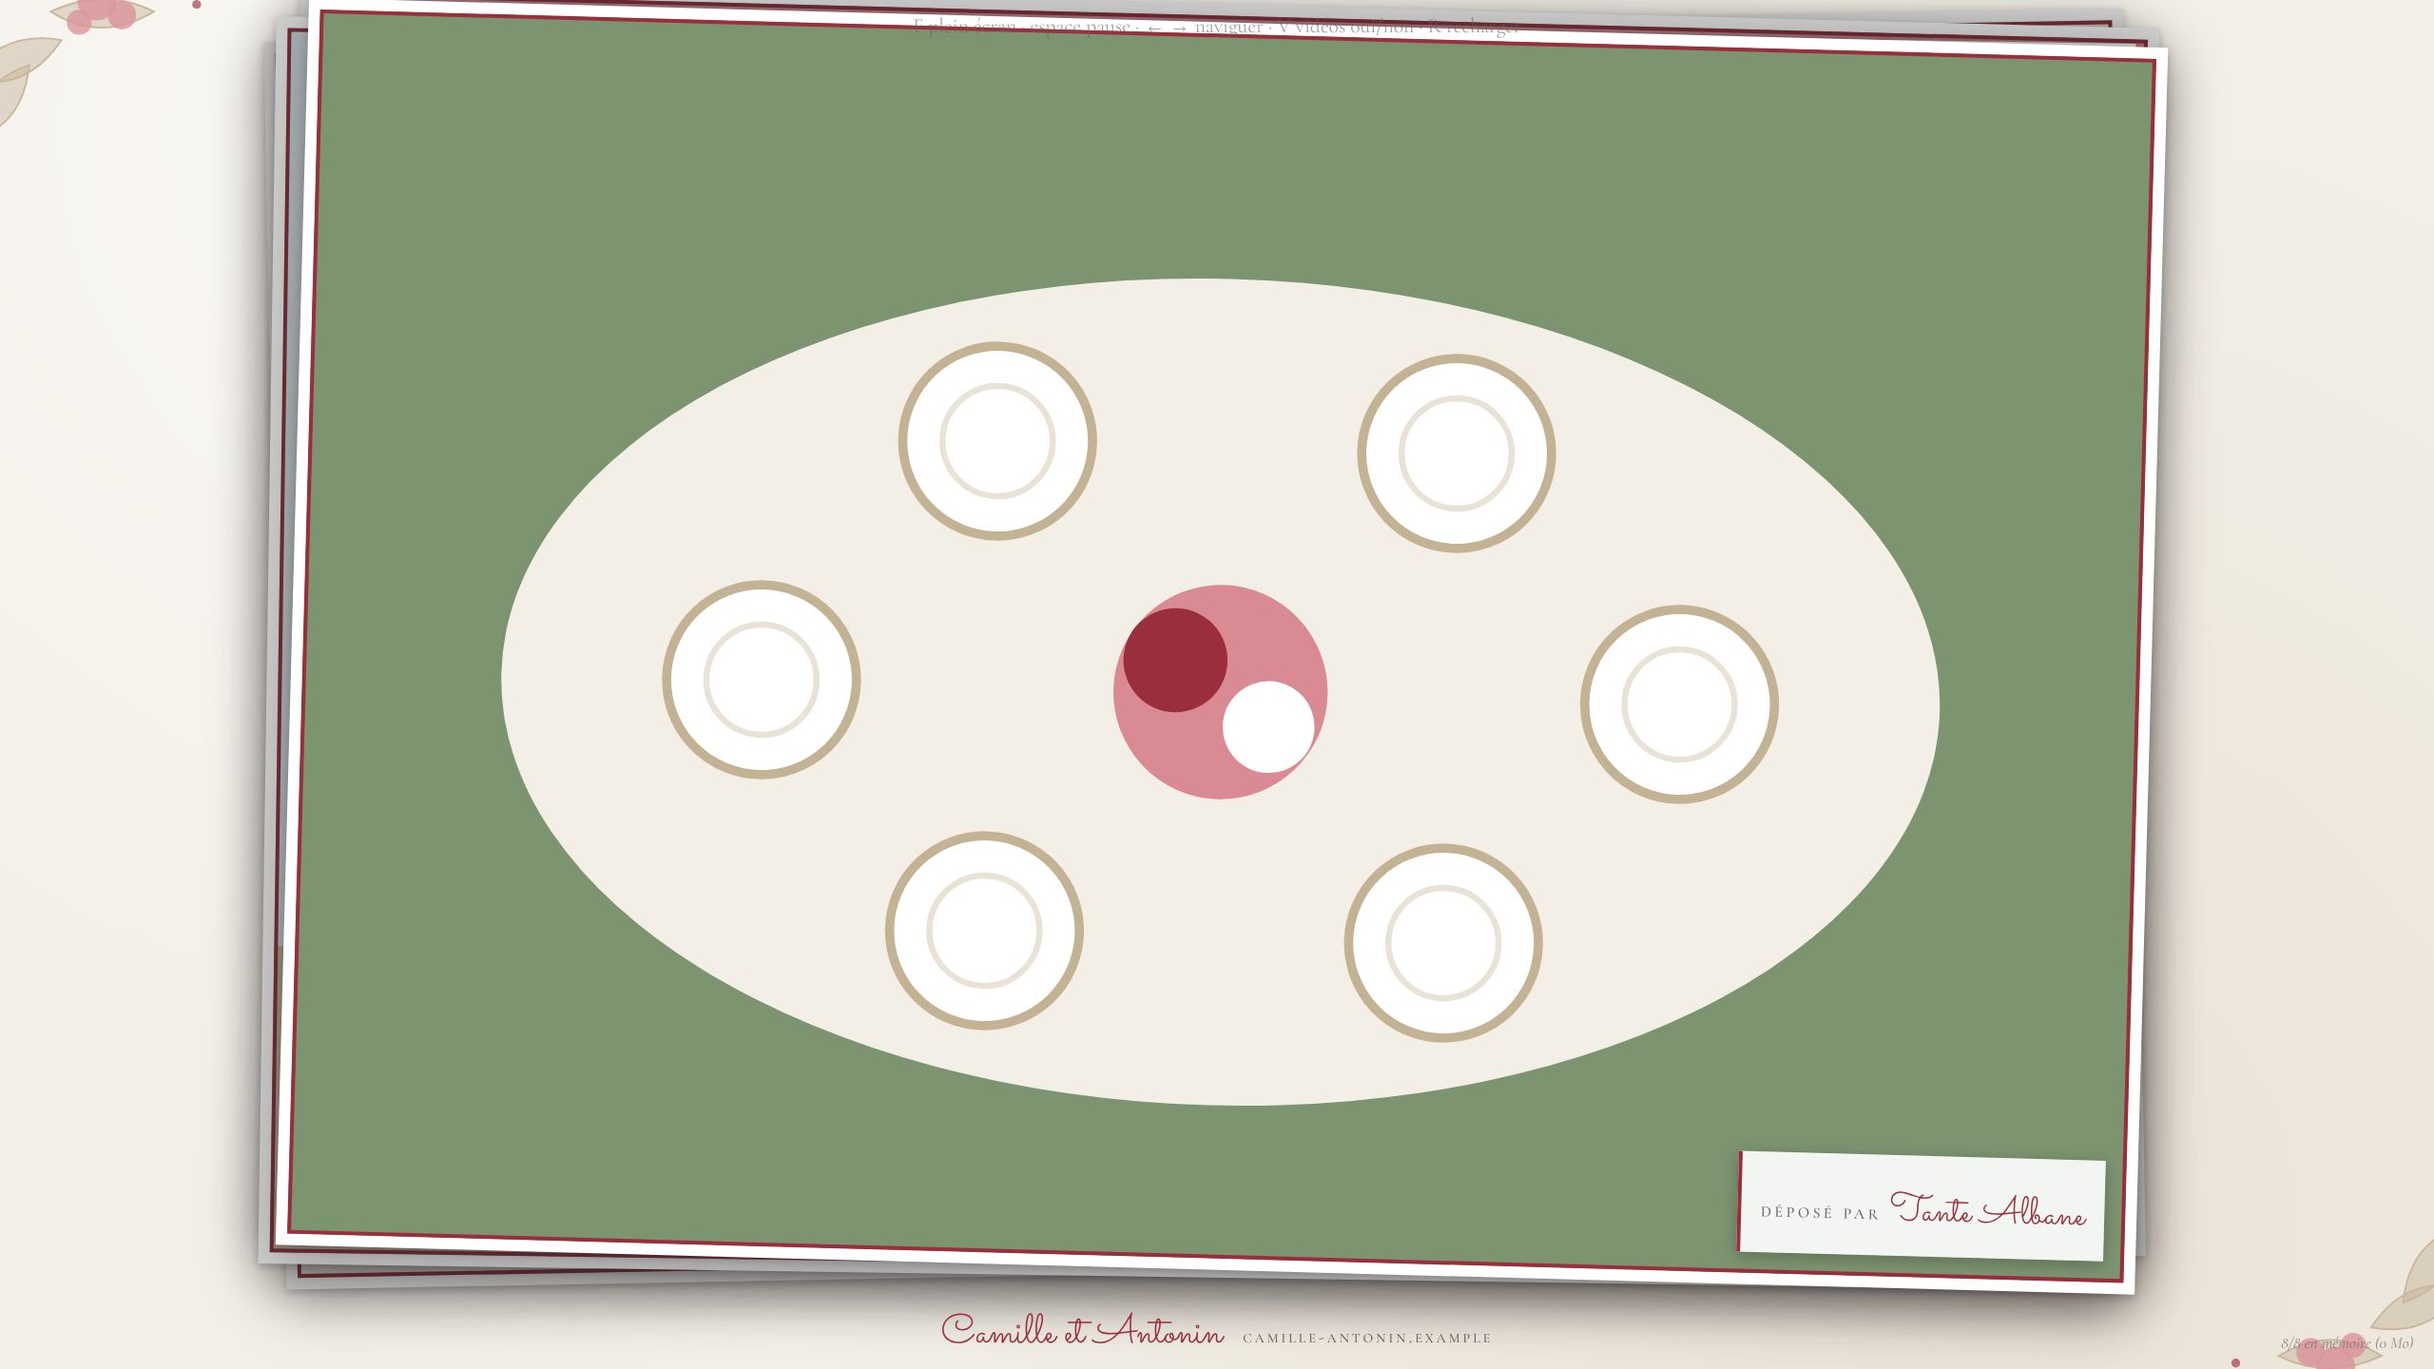
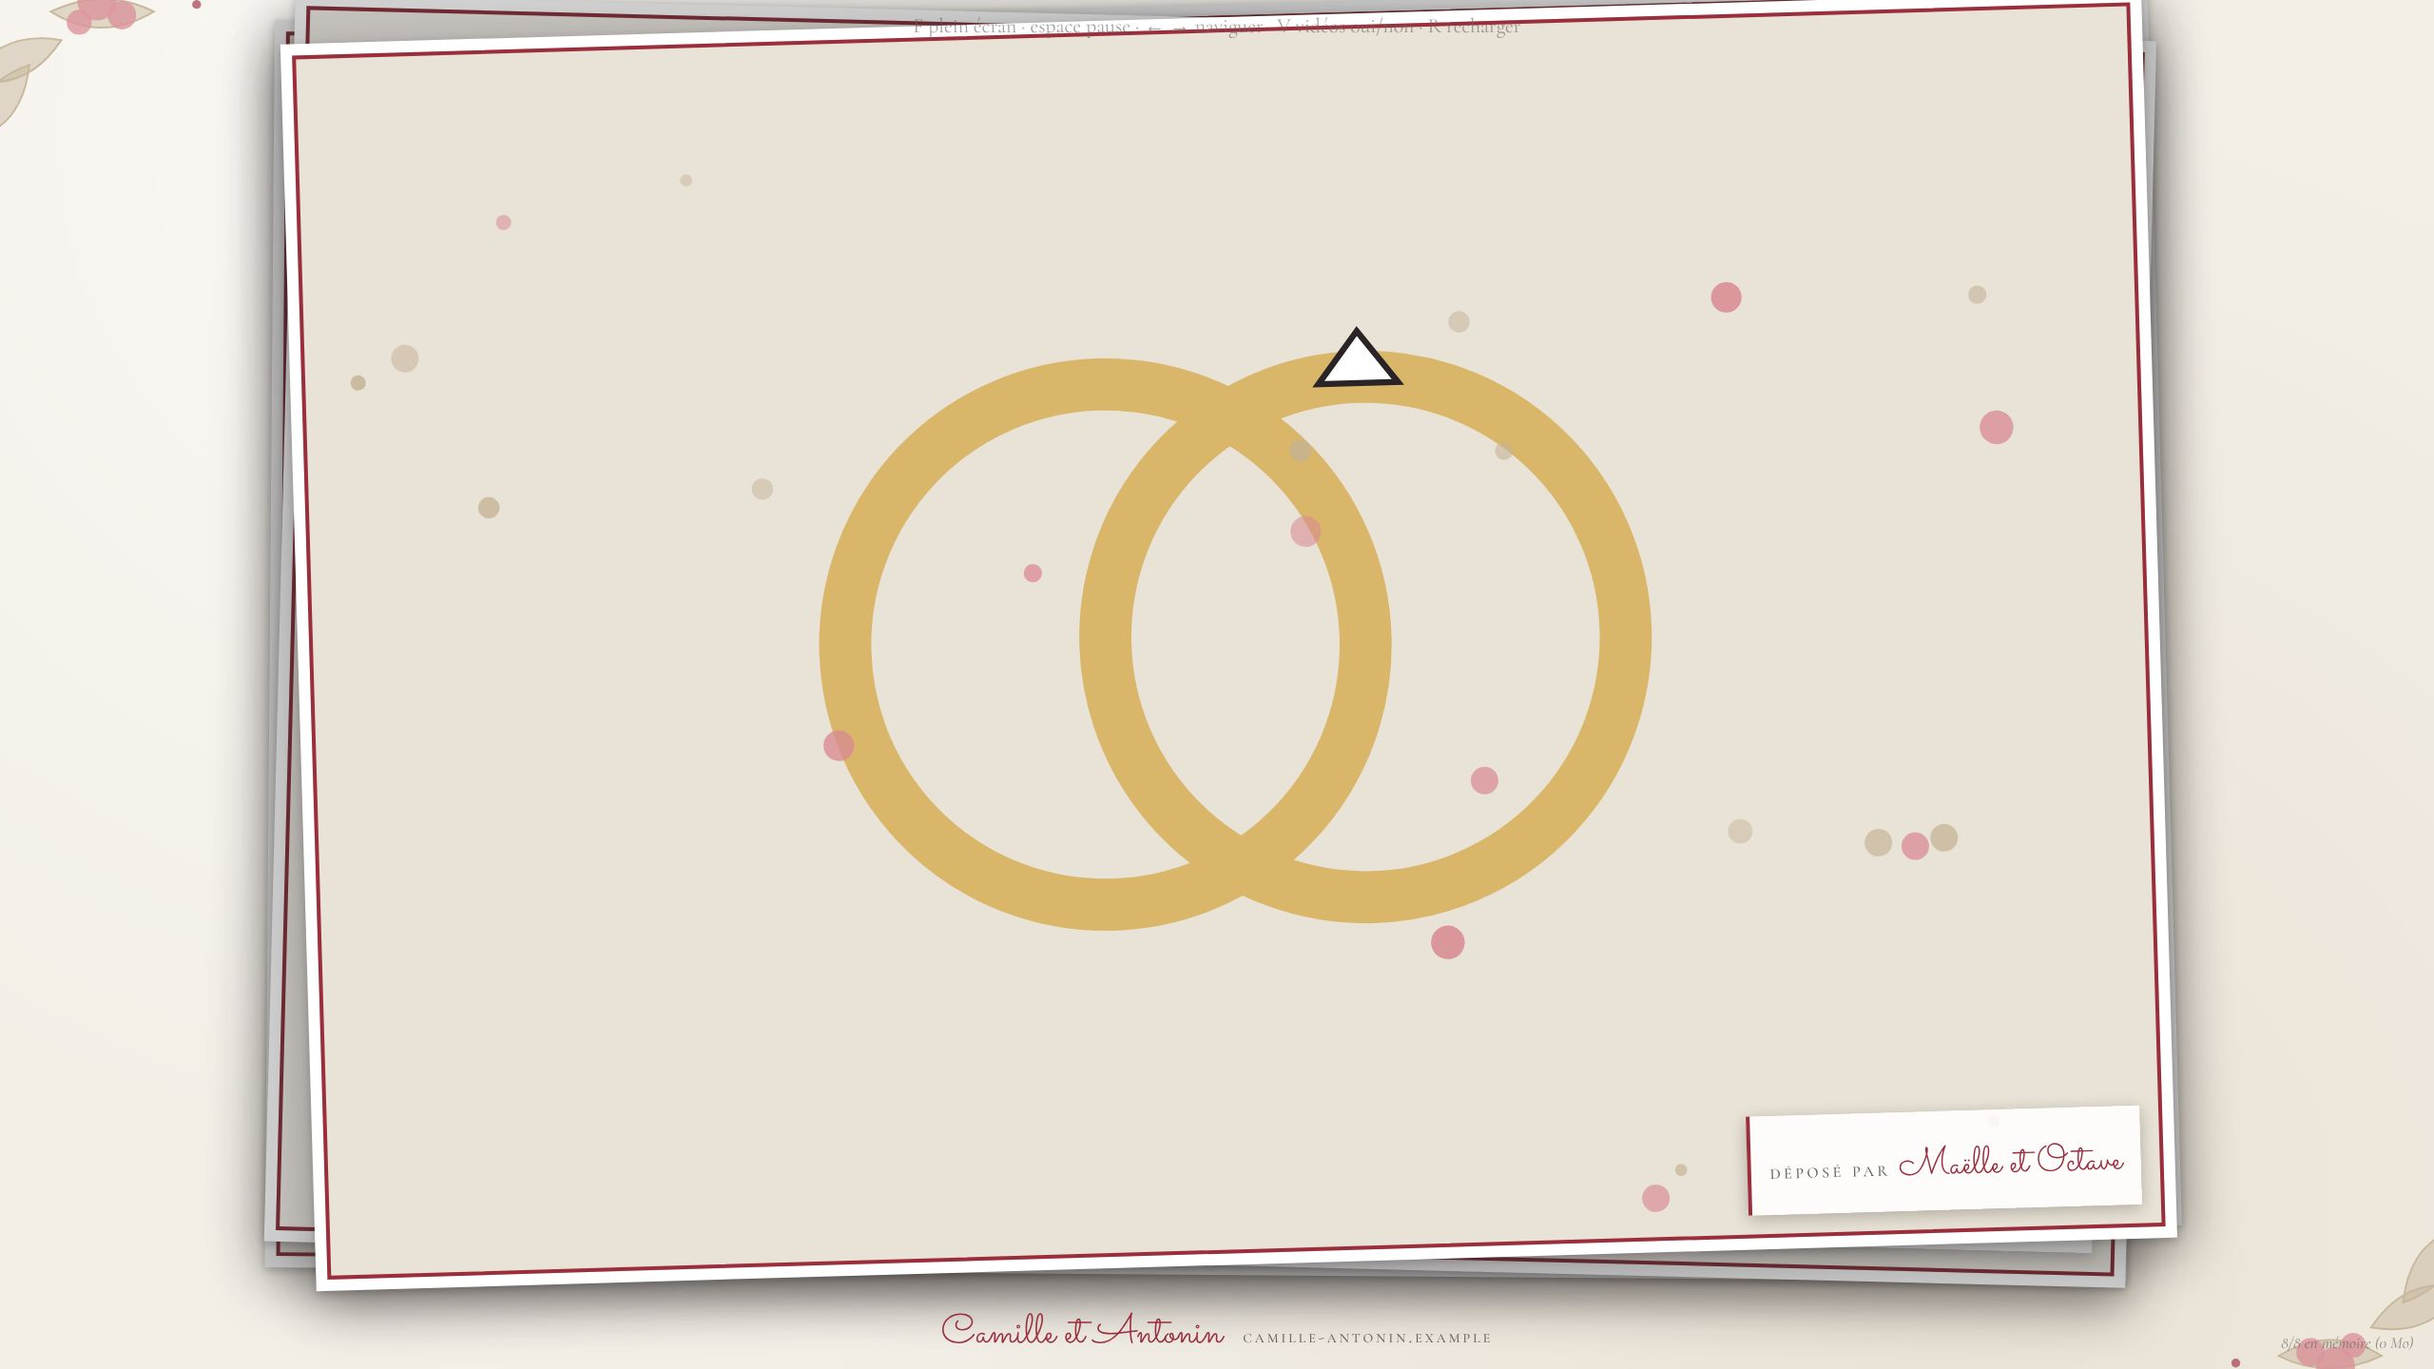
Projection : taille des photos selon leur format, guide pour peu de réseau
- Chaque photo est affichée à sa plus grande taille possible, sans bande ni recadrage
- Petite photo agrandie, légende sous les photos étroites
- Documentation du téléchargement à l'avance pour projeter sans connexion
- Programme : titre « Programme du mariage », captures téléphone et ordinateur

diff --git a/projection.html b/projection.html
@@ -48,14 +48,20 @@
     max-width:calc(100vw - 4vmin);max-height:calc(100vh - 8.5vmin)}
   .cadre .media{position:relative;outline:.35vmin solid var(--bordeaux);outline-offset:-.35vmin;background:var(--papier-fonce);line-height:0}
   .cadre img,.cadre video{display:block;max-width:calc(100vw - 6vmin);max-height:calc(100vh - 10.5vmin);width:auto;height:auto;object-fit:contain}
-  .cadre img{min-width:40vmin;min-height:30vmin}
-  .cadre video{min-width:60vmin;min-height:34vmin}
+  /* La taille exacte de chaque photo est calculée par ajuster() : le cadre épouse la photo, quel que soit son format. */
   /* légende sur la photo, en bas à droite */
   .legende{position:absolute;right:1.6vmin;bottom:1.6vmin;max-width:min(50%,60vmin);background:rgba(255,255,255,.9);padding:.9vmin 1.4vmin .8vmin;
     text-align:right;box-shadow:0 .3vmin 1.2vmin rgba(0,0,0,.25);border-left:.4vmin solid var(--bordeaux)}
   .legende .mot{font-size:2.3vmin;font-style:italic;color:var(--encre);line-height:1.3;white-space:pre-wrap;margin-bottom:.4vmin;max-height:22vh;overflow:hidden}
   .legende .qui{font-size:1.5vmin;color:var(--encre-douce);line-height:1.7;margin-top:.8vmin}
   .legende .qui .nom{font-family:"Sacramento",cursive;color:var(--bordeaux);font-size:2.8vmin;margin-left:.6vmin;letter-spacing:0;font-variant:normal}
+  .legende .qui .nom{white-space:nowrap}
+  /* photo étroite : la légende passe sous la photo au lieu de la recouvrir */
+  .cadre.etroite{min-width:46vmin}
+  .cadre.etroite .media{background:#fff;line-height:normal}
+  .cadre.etroite .media img,.cadre.etroite .media video{margin:0 auto}
+  .cadre.etroite .legende{position:static;width:0;min-width:100%;max-width:none;background:#fff;box-shadow:none;border-left:0;text-align:center;padding:1.2vmin .6vmin .4vmin;line-height:1.3}
+  .cadre.etroite .legende .qui .nom{white-space:normal}
   .attente{position:static;width:80vw;display:flex;flex-direction:column;align-items:center;gap:2.5vmin;text-align:center}
   .attente .script{font-size:12vmin}
   .attente .caps{font-size:3vmin;color:var(--encre-douce)}
@@ -276,6 +282,8 @@ function afficher(it){
     d.style.setProperty('--rot', ((Math.random() * 4) - 2).toFixed(2) + 'deg');
     d.style.setProperty('--dx', ((Math.random() * 3) - 1.5).toFixed(2) + 'vmin');
     d.style.setProperty('--dy', ((Math.random() * 3) - 1.5).toFixed(2) + 'vmin');
+    const el = d.querySelector('img,video');
+    el.addEventListener(it.type === 'photo' ? 'load' : 'loadedmetadata', () => ajuster(d));
     if (it.type === 'video') {
       const v = d.querySelector('video');
       v.addEventListener('ended', () => { if (!enPause) suivant(); });
@@ -287,6 +295,28 @@ function afficher(it){
   requestAnimationFrame(() => d.classList.add('visible'));
   if (!enPause) timer = setTimeout(suivant, duree);
 }
+
+/* Taille d'une photo ou d'une vidéo à l'écran : la plus grande possible sans déformation ni débordement.
+   Une petite image est agrandie, 4 fois au plus pour ne pas devenir floue.
+   Si le résultat est étroit, la légende passe sous l'image pour ne pas la recouvrir. */
+function ajuster(d){
+  const el = d.querySelector('img,video'), cadre = d.querySelector('.cadre'); if (!el || !cadre) return;
+  const nw = el.naturalWidth || el.videoWidth, nh = el.naturalHeight || el.videoHeight; if (!nw || !nh) return;
+  const vmin = Math.min(innerWidth, innerHeight) / 100;
+  const maxL = innerWidth - 6 * vmin, maxH = innerHeight - 10.5 * vmin;
+  const taille = h => { const e = Math.min(maxL / nw, h / nh, 4); return [Math.round(nw * e), Math.round(nh * e)]; };
+  let [l, h] = taille(maxH);
+  cadre.classList.toggle('etroite', l < 60 * vmin);
+  el.style.width = l + 'px'; el.style.height = h + 'px';
+  if (cadre.classList.contains('etroite')) {
+    const leg = d.querySelector('.legende');
+    [l, h] = taille(maxH - leg.offsetHeight);
+    el.style.width = l + 'px'; el.style.height = h + 'px';
+    [l, h] = taille(maxH - leg.offsetHeight);   // la légende a pu changer de hauteur avec la nouvelle largeur
+    el.style.width = l + 'px'; el.style.height = h + 'px';
+  }
+}
+window.addEventListener('resize', () => document.querySelectorAll('.diapo').forEach(ajuster));
 
 /* ---------- commandes ---------- */
 document.addEventListener('keydown', e => {

diff --git a/programme.html b/programme.html
@@ -145,7 +145,7 @@
 
   <section id="app" hidden>
     <header class="titre">
-      <h1 class="script">Programme du week-end</h1>
+      <h1 class="script">Programme du mariage</h1>
     </header>
     <div class="jours" id="jours"></div>
     <div class="maintenant" id="maintenant"></div>

diff --git a/README.md b/README.md
@@ -9,7 +9,7 @@ Le site réunit 4 pages, chacune pour un public. La page de dépôt est **optimi
 | Dépôt des souvenirs | Les invités, sans compte | Envoyer des photos, des vidéos et un mot | [Ouvrir](https://famickael.github.io/projection-mariage/) |
 | Administration | Les organisateurs, avec un compte | Vérifier les photos et les mots, les corriger, les retirer, tout télécharger | [Ouvrir](https://famickael.github.io/projection-mariage/admin.html) |
 | Projection | L'écran de la soirée | Faire défiler les souvenirs en continu, dès leur arrivée | [Ouvrir](https://famickael.github.io/projection-mariage/projection.html) |
-| Programme | L'équipe qui organise | Tenir le déroulé du week-end à plusieurs, à l'abri des mariés | [Ouvrir](https://famickael.github.io/projection-mariage/programme.html) |
+| Programme | L'équipe qui organise | Tenir le programme du mariage à plusieurs, à l'abri des mariés | [Ouvrir](https://famickael.github.io/projection-mariage/programme.html) |
 
 > **In English.** A reusable template for a wedding keepsake site, made of 4 pages: guest upload, moderation, live slideshow and a shared schedule for the organizing team. It is a static site with no build step, backed by a Supabase project, and all wedding-specific content lives in a single file, `donnees.js`. The pages, the sample data and the documentation are in French.
 
@@ -19,8 +19,11 @@ Le site réunit 4 pages, chacune pour un public. La page de dépôt est **optimi
     <td><img src="docs/captures/02-administration.jpg" alt="Administration : un envoi, ses photos, les boutons Projeté, Télécharger et Supprimer" width="330"></td>
   </tr>
   <tr>
-    <td><img src="docs/captures/04-programme.jpg" alt="Programme sur téléphone : planning d'une journée avec ses moments" width="190"></td>
-    <td><img src="docs/captures/03-projection.jpg" alt="Projection : une photo posée sur les précédentes, avec le nom de l'invité" width="330"></td>
+    <td><img src="docs/captures/04-programme-telephone.jpg" alt="Programme sur téléphone : liste des moments d'une journée" width="190"></td>
+    <td><img src="docs/captures/05-programme-ordinateur.jpg" alt="Programme sur ordinateur : planning d'une journée, avec ses phases et ses moments" width="330"></td>
+  </tr>
+  <tr>
+    <td colspan="2"><img src="docs/captures/03-projection.jpg" alt="Projection : une photo posée sur les précédentes, avec le nom de l'invité" width="530"></td>
   </tr>
 </table>
 
@@ -33,8 +36,8 @@ L'exemple fourni est le mariage de Camille et Antonin. **Toutes les données son
 | Dépôt sans compte | Un nom, des fichiers, un mot facultatif par fichier |
 | Gros fichiers | Envoi par morceaux, avec reprise après une courte coupure de réseau et temps restant affiché |
 | Modération | Chaque envoi et chaque fichier peut être retiré de la projection, corrigé ou supprimé |
-| Projection | Photos et vidéos mélangées, avec le mot et le nom de l'invité. Un nouvel envoi passe en priorité |
-| Coupure de réseau | Les médias sont gardés en mémoire, la projection continue hors ligne |
+| Projection | Photos et vidéos mélangées, chacune à sa plus grande taille possible, avec le mot et le nom de l'invité. Un nouvel envoi passe en priorité |
+| Peu de réseau | La projection télécharge les photos et les vidéos à l'avance, puis continue sans connexion |
 | Archive | Téléchargement de tous les souvenirs en un fichier zip, et export des mots dans un fichier CSV, lisible par un tableur |
 | Programme | Moments déplaçables, moments verrouillés, phases de la journée, repère de l'heure en cours |
 | Démonstration | Sans aucun réglage, les 4 pages s'ouvrent avec un contenu fictif et rien n'est envoyé |

diff --git a/docs/utilisation.md b/docs/utilisation.md
@@ -32,9 +32,39 @@ Ouvrez `projection.html` sur l'ordinateur relié à l'écran, puis passez en ple
 | `R` | Recharger la liste des envois |
 
 - La liste est relue toutes les 20 secondes. Un nouvel envoi passe en priorité, puis rejoint le mélange.
-- Les médias sont téléchargés en mémoire au fil de l'eau. En cas de coupure de réseau, la projection continue avec ce qui est déjà en mémoire, et le compteur en bas à droite l'indique.
 - Les vidéos passent sans le son et sont coupées au bout de 45 secondes.
-- Fermer l'onglet vide la mémoire : il reste ouvert toute la soirée.
+
+### La taille des photos à l'écran
+
+Chaque photo est affichée en entier, sans déformation ni recadrage, à la plus grande taille que l'écran permet.
+
+| Photo | Affichage |
+|---|---|
+| Paysage ou carrée | Sur presque toute la hauteur de l'écran, la légende posée dans un coin |
+| Portrait | Sur toute la hauteur disponible |
+| Très étroite, comme une capture d'écran de téléphone | La légende passe sous la photo, pour ne pas la recouvrir |
+| Panoramique | Sur toute la largeur de l'écran |
+| Petite, comme une image reçue par messagerie | Agrandie, 4 fois au plus pour ne pas devenir floue |
+
+### Projeter avec peu de réseau
+
+Le réseau d'une salle des fêtes est souvent faible ou instable. La projection est faite pour s'en passer une fois lancée.
+
+Le principe : dès son ouverture, la page télécharge toutes les photos et toutes les vidéos dans la mémoire de l'ordinateur, une par une, les photos d'abord. Elle projette ensuite depuis cette mémoire, et non depuis Internet. Le compteur en bas à droite de l'écran indique l'avancement, par exemple « 42/60 en mémoire ».
+
+La marche à suivre :
+
+1. Ouvrez la projection à l'avance, là où le réseau est bon : chez soi, ou en partage de connexion depuis un téléphone.
+2. Attendez que le compteur soit complet, par exemple « 60/60 en mémoire ».
+3. Ne fermez pas l'onglet et ne rechargez pas la page : la mémoire serait vidée et tout serait à télécharger de nouveau.
+
+Pendant la soirée :
+
+- Sans réseau, la projection continue avec ce qui est en mémoire. Le compteur passe en rouge et indique « hors ligne ».
+- Les nouveaux envois des invités ne peuvent arriver à l'écran que si l'ordinateur a du réseau à ce moment. Un partage de connexion suffit : la page reprend seule dès que le réseau revient.
+- La touche `V` retire les vidéos de la projection.
+
+Les vidéos sont les plus lourdes à télécharger et à garder en mémoire. Avec plusieurs centaines de fichiers, un ordinateur récent est préférable.
 
 ## Le programme
 

diff --git a/docs/etude-de-cas.md b/docs/etude-de-cas.md
@@ -10,7 +10,7 @@ Le site répond à 3 besoins liés :
 
 1. Réunir les photos et les vidéos des invités au même endroit, dans leur qualité d'origine.
 2. Les montrer le soir même, sur l'écran de la salle.
-3. Donner à l'équipe qui organise un déroulé commun du week-end, que les mariés ne voient pas.
+3. Donner à l'équipe qui organise un programme commun du mariage, sur plusieurs jours, que les mariés ne voient pas.
 
 ## Les publics
 
@@ -32,7 +32,8 @@ Le site répond à 3 besoins liés :
 | Envoi par morceaux, avec reprise après une courte coupure | Une vidéo de téléphone pèse plusieurs centaines de Mo, et le réseau d'une salle des fêtes est instable |
 | Un interrupteur « Projeté » distinct de la suppression | Retirer une photo de l'écran ne doit pas la retirer de l'archive |
 | Les nouveaux envois passent en priorité | L'invité voit sa photo à l'écran peu après l'avoir envoyée, ce qui incite les autres à déposer |
-| Les médias gardés en mémoire | La projection ne dépend plus du réseau une fois lancée |
+| Les médias téléchargés à l'avance et gardés en mémoire | La projection ne dépend plus du réseau une fois lancée |
+| Une taille calculée pour chaque photo | Les invités envoient tous les formats, du panorama à la capture d'écran |
 | Projection et programme ouverts par défaut | Le jour du mariage, personne ne cherche un mot de passe |
 | Des journées de 6h à 6h dans le programme | Une soirée de mariage se termine après minuit |
 | Des moments verrouillés | Les heures imposées (cérémonie, traiteur) ne bougent pas quand le reste glisse |

diff --git a/CHANGELOG.md b/CHANGELOG.md
@@ -12,6 +12,7 @@ Révision réalisée avec Claude.
 - Vérification du fichier de données avec `?verifier`.
 - Scripts Supabase : création, option d'accès par compte à la projection et au programme, fermeture après le mariage.
 - Projection : les aides à l'écran (raccourcis, pause, état de la mémoire) et l'écran d'attente retrouvent leur mise en forme.
+- Projection : la taille de chaque photo est calculée selon son format. Une petite photo est agrandie, une photo étroite reçoit sa légende dessous.
 - Sécurité : textes venus de la base échappés dans l'administration et le programme, droits Supabase resserrés pour les envois masqués.
 - Administration : le mot général d'un envoi, qui n'était plus saisi ni projeté, est retiré. 2 fichiers de même nom ne s'écrasent plus dans le zip.
 - Documentation : README, pages du dossier `docs/`, guide pour les assistants IA.
